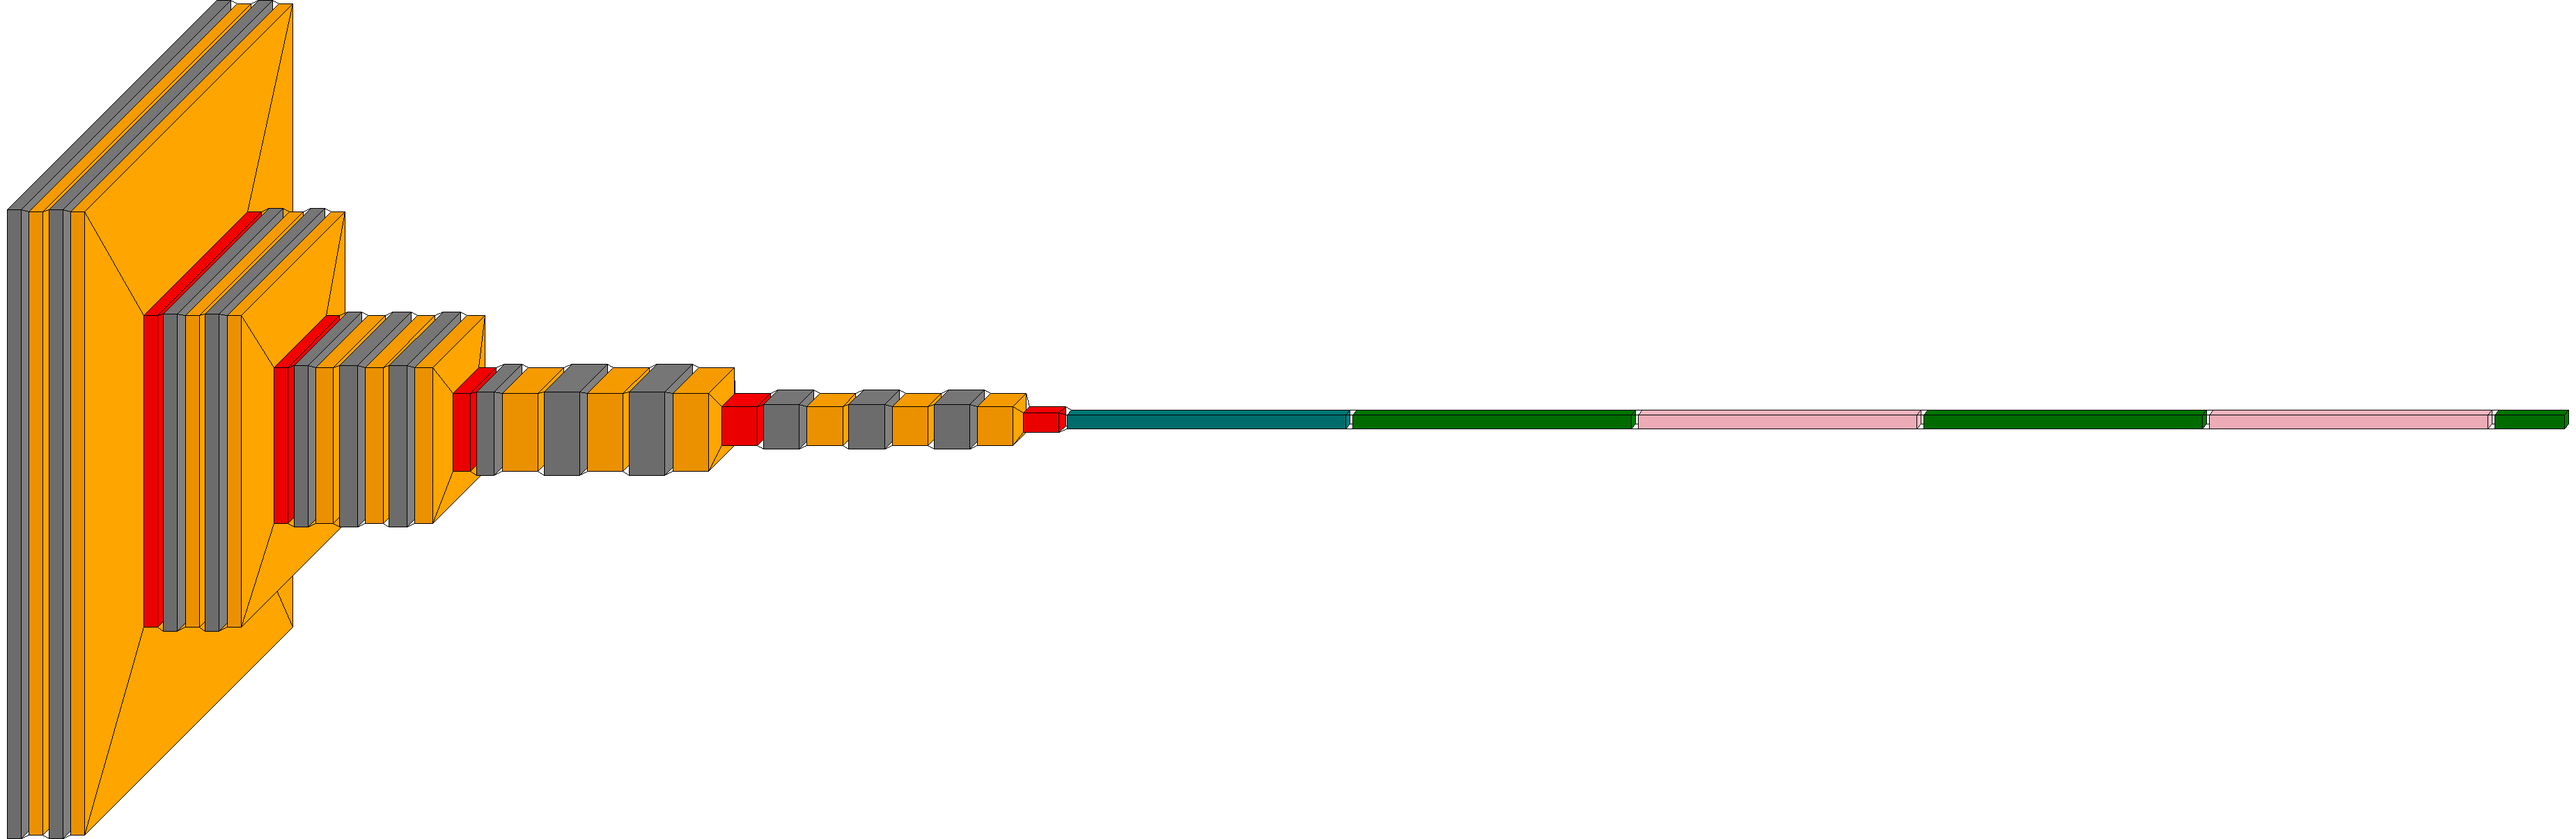
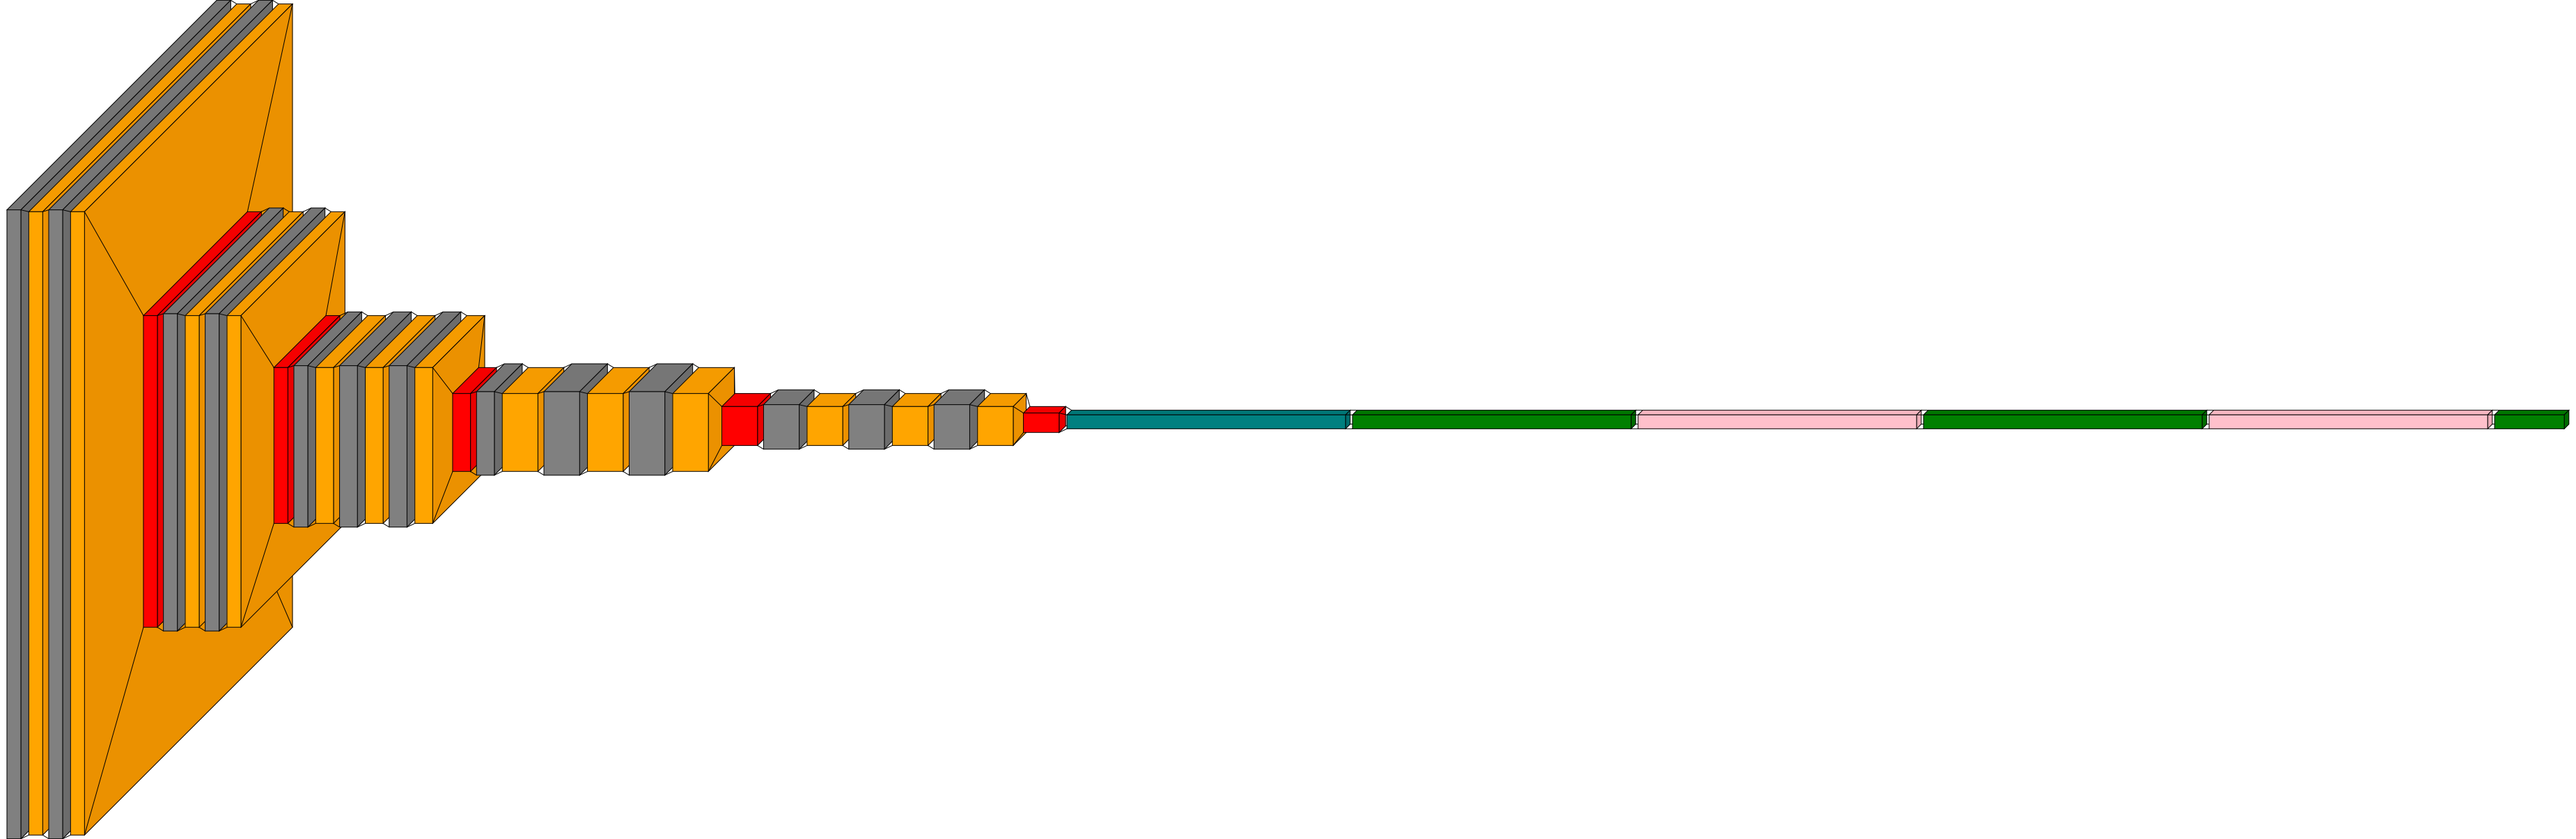
layered_view: fixing ColorWheel issues
Reverting back to using the layer type as colorwheel key

diff --git a/visualkeras/layered.py b/visualkeras/layered.py
@@ -48,7 +48,7 @@ def layered_view(model, to_file: str = None, min_z: int = 20, min_xy: int = 20, 
     current_z = padding
     x_off = -1
 
-    layer_names = set()
+    layer_types = set()
 
     img_height = 0
     max_right = 0
@@ -64,8 +64,8 @@ def layered_view(model, to_file: str = None, min_z: int = 20, min_xy: int = 20, 
             current_z += layer.spacing
             continue
 
-        layer_name = type(layer).__name__
-        layer_names.add(layer_name)
+        layer_type = type(layer)
+        layer_types.add(layer_type)
 
         x = min_xy
         y = min_xy
@@ -116,9 +116,9 @@ def layered_view(model, to_file: str = None, min_z: int = 20, min_xy: int = 20, 
         box.x2 = box.x1 + z
         box.y2 = box.y1 + y
 
-        box.fill = color_map.get(layer_name, {}).get('fill', color_wheel.get_color(layer_name))
-        box.outline = color_map.get(layer_name, {}).get('outline', 'black')
-        color_map[layer_name] = {'fill': box.fill, 'outline': box.outline}
+        box.fill = color_map.get(layer_type, {}).get('fill', color_wheel.get_color(layer_type))
+        box.outline = color_map.get(layer_type, {}).get('outline', 'black')
+        color_map[layer_type] = {'fill': box.fill, 'outline': box.outline}
 
         box.shade = shade_step
         boxes.append(box)
@@ -189,7 +189,7 @@ def layered_view(model, to_file: str = None, min_z: int = 20, min_xy: int = 20, 
         if draw_volume:
             de = cube_size // 2
 
-        legend_height = len(layer_names) * (cube_size + de + spacing) + 2 * padding
+        legend_height = len(layer_types) * (cube_size + de + spacing) + 2 * padding
         img_box = Image.new('RGBA', (int(ceil(img_width)), legend_height + padding), background_fill)
         img_text = Image.new('RGBA', (int(ceil(img_width)), legend_height + padding), (0, 0, 0, 0))
         draw_box = aggdraw.Draw(img_box)
@@ -198,7 +198,7 @@ def layered_view(model, to_file: str = None, min_z: int = 20, min_xy: int = 20, 
         last_box = Box()
         last_box.y2 = padding
 
-        for layer_name in layer_names:
+        for layer_type in layer_types:
             box = Box()
             box.x1 = padding
             box.x2 = box.x1 + cube_size
@@ -206,8 +206,8 @@ def layered_view(model, to_file: str = None, min_z: int = 20, min_xy: int = 20, 
             box.y2 = box.y1 + cube_size
             box.de = de
             box.shade = shade_step
-            box.fill = color_map.get(layer_name, {}).get('fill', "#000000")
-            box.outline = color_map.get(layer_name, {}).get('outline', "#000000")
+            box.fill = color_map.get(layer_type, {}).get('fill', "#000000")
+            box.outline = color_map.get(layer_type, {}).get('outline', "#000000")
             last_box = box
             box.draw(draw_box)
 
@@ -215,7 +215,7 @@ def layered_view(model, to_file: str = None, min_z: int = 20, min_xy: int = 20, 
             text_y = box.y1 - de + (cube_size + de) / 2  # 2D center of the cube
             text_y -= text_height / 2  # height of some text that has ascending and descending elongation
 
-            draw_text.text((text_x, text_y), layer_name, font=font, fill=font_color)
+            draw_text.text((text_x, text_y), layer_type.__name__, font=font, fill=font_color)
 
         draw_box.flush()
         img_box.paste(img_text, mask=img_text)

diff --git a/visualkeras/utils.py b/visualkeras/utils.py
@@ -83,9 +83,9 @@ class Ellipses(RectShape):
 
 class ColorWheel:
 
-    def __init__(self, colors: list = ["#ffd166", "#ef476f", "#06d6a0", "#118ab2", "#073b4c"]):
+    def __init__(self, colors: list = None):
         self._cache = dict()
-        self.colors = colors
+        self.colors = colors if colors is not None else ["#ffd166", "#ef476f", "#06d6a0", "#118ab2", "#073b4c"]
 
     def get_color(self, class_type: type):
         if class_type not in self._cache.keys():
